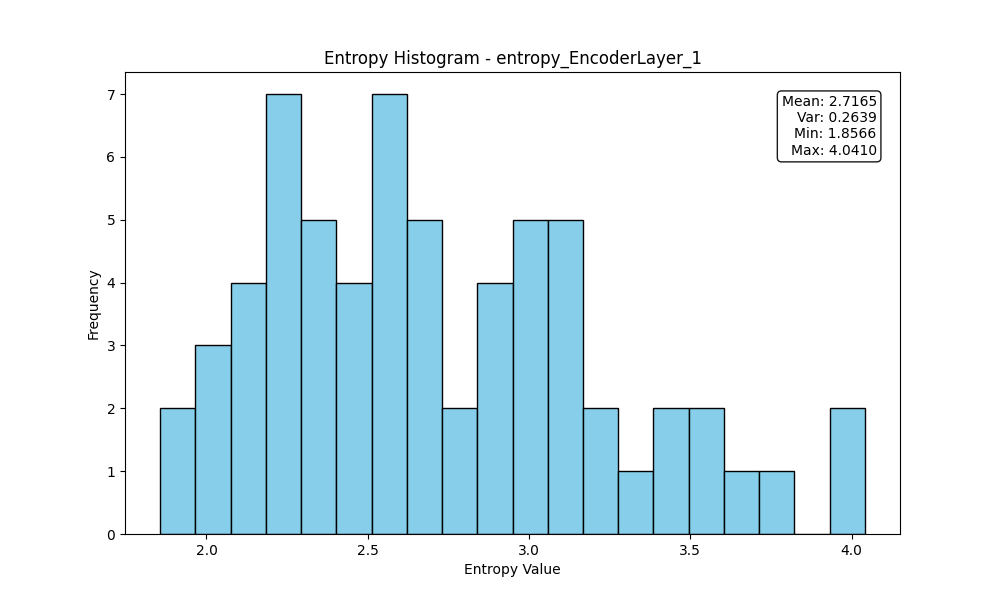
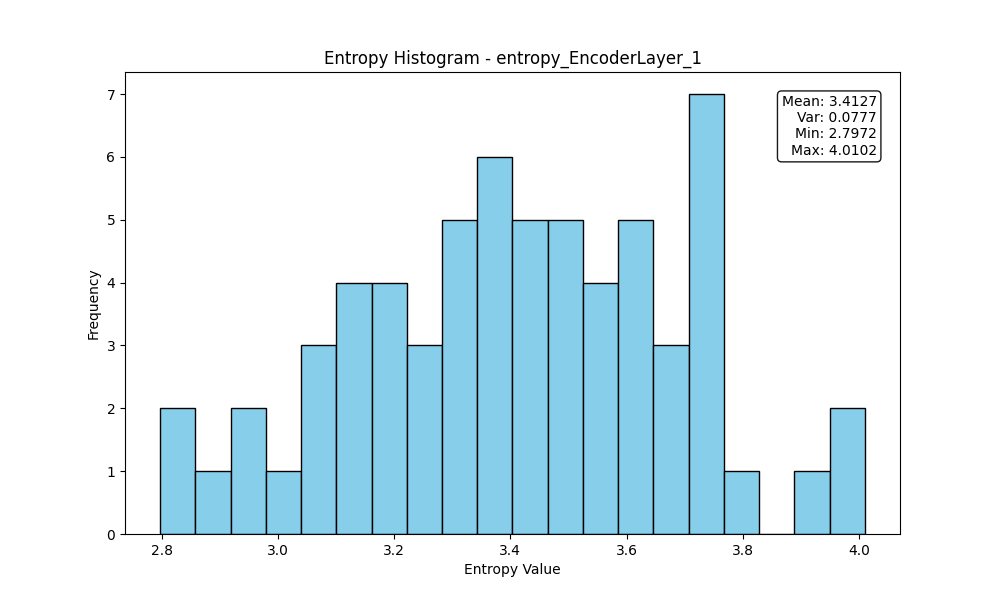
results for model with 6 encoder layers

diff --git a/peek_vit_attention_entropy.py b/peek_vit_attention_entropy.py
@@ -48,7 +48,7 @@ class TransformerEncoder(nn.Module):
         return x
 
 class VisionTransformer(nn.Module):
-    def __init__(self, img_size=32, patch_size=4, num_classes=10, embed_dim=64, depth=4, num_heads=4, hidden_dim=128):
+    def __init__(self, img_size=32, patch_size=4, num_classes=10, embed_dim=64, depth=6, num_heads=4, hidden_dim=128):
         super().__init__()
         self.patch_embed = PatchEmbedding(img_size, patch_size, 3, embed_dim)
         self.pos_embed = nn.Parameter(torch.randn(1, (img_size // patch_size)**2, embed_dim))
@@ -238,7 +238,7 @@ def main():
 
     # Train loop
     model.train()
-    for epoch in range(1):
+    for epoch in range(7):
         for images, labels in train_loader:
             images, labels = images.to(device), labels.to(device)
             optimizer.zero_grad()
@@ -253,7 +253,7 @@ def main():
 
     # Pick one test image
     sample_image, true_label = test_dataset[2]
-    sample_image = sample_image.unsqueeze(0).to(device)\
+    sample_image = sample_image.unsqueeze(0).to(device)
     # Save feature maps
     save_path = './features/sample_image_attn.pkl'
     
